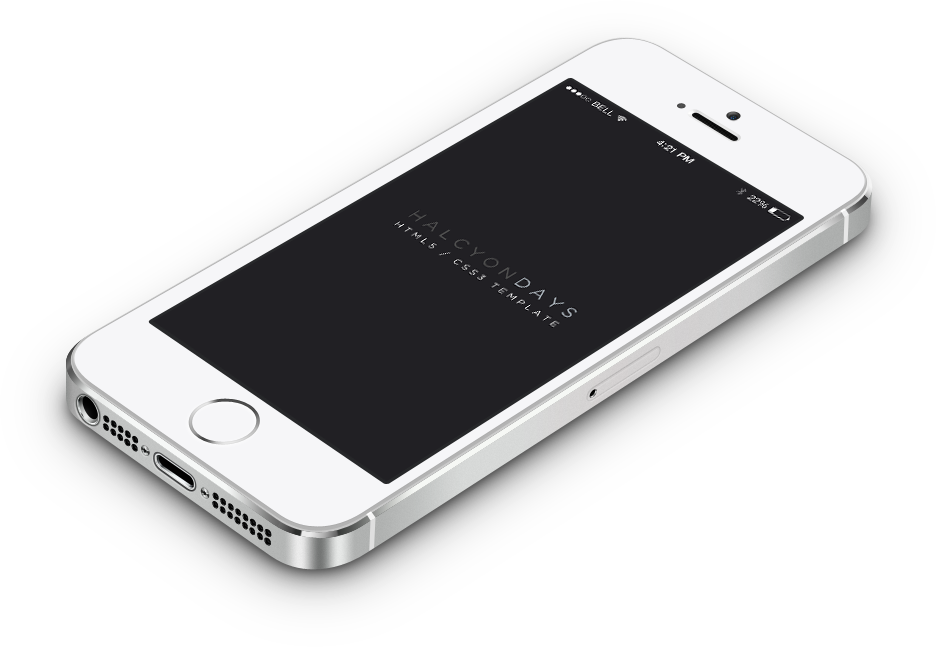
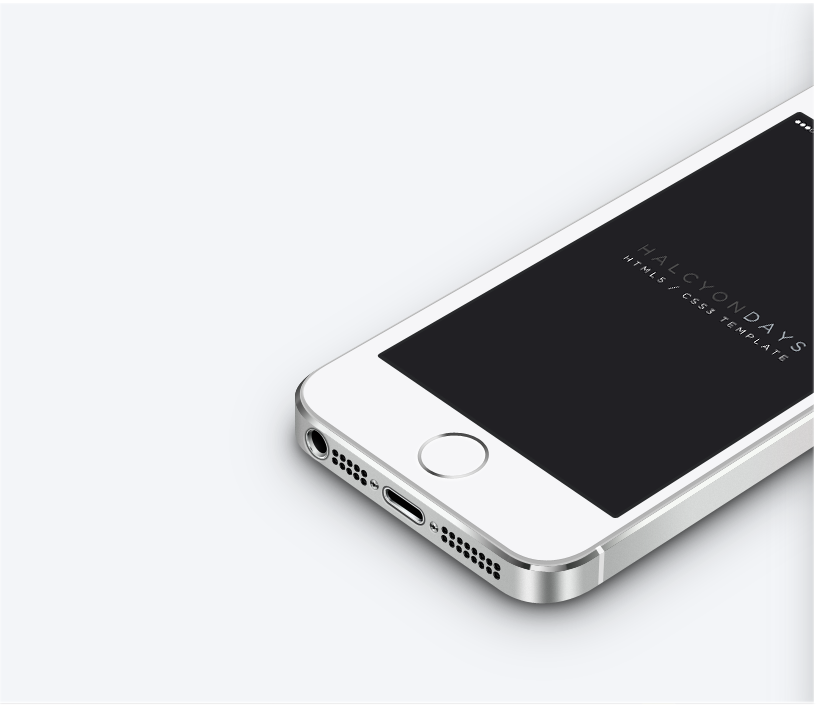
working in progress

diff --git a/app/index.html b/app/index.html
@@ -67,24 +67,12 @@
   </div>
 </section>
 
-<!-- <section class="specialist-section">
-    <div class="specialist-section__container margin-top-section">
-      <div class="specialist-section__left-col">
-        <img src="assets/img/iphone2.png" alt="iphone-2"/>
-      </div>
-      <div class="specialist-section__right-col">
-        <h3>Responsive Design Specialist</h3>
-          <p>Lorem ipsum dolor sit amet, consectetur adipiscing elit. Nunc ultricies nulla non metus pulvinar imperdiet. Praesent non adipiscing libero.</p>
-          <p>Mauris ultrices odio vitae nulla ultrices iaculis. Nulla rhoncus odio eu lectus faucibus facilisis. Maecenas ornare augue vitae sollicitudin accumsan.</p>
-          <p>Etiam  eget libero et erat eleifend consectetur a nec lectus. Sed id tellus lorem. Suspendisse sed venenatis odio, quis lobortis eros.</p>
-      </div>
-    </div>
-</section> -->
+
 
 <section class="specialist-section margin-top-section">
   <div class="specialist-section__container">
     <div class="specialist-section__left-col">
-      <img src="assets/img/iphone2.png" alt="iphone"/>
+      <img src="assets/img/iphone.png" alt="iphone"/>
     </div>
     <div class="specialist-section__right-col slick-items">
       <div>

diff --git a/app/dist/build/css/stylesheets.css b/app/dist/build/css/stylesheets.css
@@ -990,6 +990,7 @@ img{
 
 .specialist-section{
   clear: both;
+
 }
 
 .specialist-section__left-col{
@@ -1003,7 +1004,6 @@ img{
   margin-right: 150px;
   text-align: center;
   margin-top: 135px;
-
 }
 
 /*** if screen is larger than 530 do this ***/
@@ -1014,25 +1014,25 @@ img{
     margin-top: 50px;
     margin-right: 0px;
     padding: 0px 20px
-
 }
   }
 
-.specialist-section__right-col__maintext{
+.specialist-section__maintext{
   color: #353535;
   text-transform: uppercase;
   font-family: 'Varela Round', Verdana, Tahoma, Arial, Sans-Serif;
   font-size: 0.9375rem;
+  text-transform: uppercase;
 }
 
-.specialist-section__right-col__arrow{
+.specialist-section__arrow{
   background-image: url('../../../assets/img/sep.png');
   background-repeat: no-repeat;
   background-position: center bottom;
   padding-bottom: 30px;
 }
 
-.specialist-section__right-col p{
+.specialist-section p{
   color: #8c9398;
   font-size: 0.885rem;
   font-family: 'Varela Round', Verdana, Tahoma, Arial, Sans-Serif;

diff --git a/app/assets/css/modules/_specialist-section.css b/app/assets/css/modules/_specialist-section.css
@@ -18,11 +18,13 @@
     margin-right: 0px;
     padding: 0px 20px;
   }
+}
 &__maintext{
   color: $mainTextGrey;
   text-transform: uppercase;
   font-family: 'Varela Round', Verdana, Tahoma, Arial, Sans-Serif;
   font-size: 0.9375rem;
+  text-transform: uppercase;
 }
 
 &__arrow{
@@ -41,5 +43,4 @@ p{
   text-align: left;
 }
 
-}
 }
